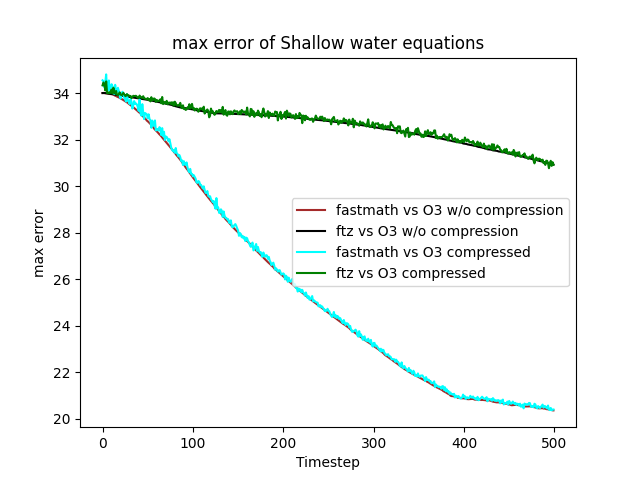
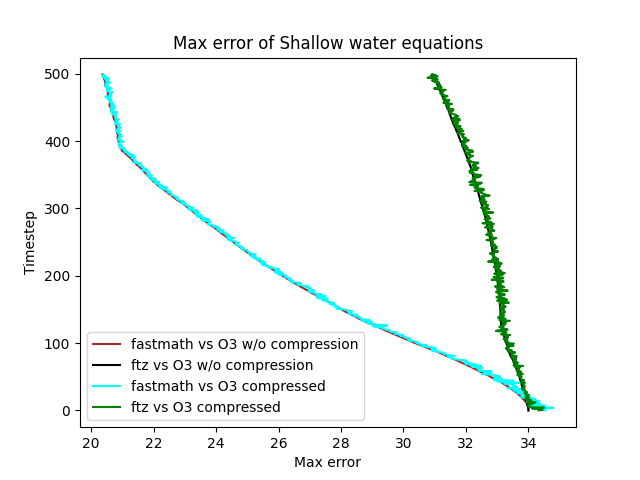
results for section 4.1

diff --git a/experiments/shallowwater.py b/experiments/shallowwater.py
@@ -96,37 +96,37 @@ for timestep in range(500):
 
     timesteps.append(timestep)
 
-    absolute_error_fastmathvsO3.append(torch.mean(subtraction_fastmathvsO3))
-    absolute_error_ftzvsO3.append(torch.mean(subtraction_ftzvsO3))
+    absolute_error_fastmathvsO3.append(torch.var(subtraction_fastmathvsO3))
+    absolute_error_ftzvsO3.append(torch.var(subtraction_ftzvsO3))
 
     decompressed_subtraction_fastmathvsO3 = abs(compressor.decompress(compressed_b - compressed_a))
     decompressed_subtraction_ftzvsO3 = abs(compressor.decompress(compressed_c - compressed_a))
 
-    absolute_error_fastmathvsO3_compressed.append(torch.mean(decompressed_subtraction_fastmathvsO3))
-    absolute_error_ftzvsO3_compressed.append(torch.mean(decompressed_subtraction_ftzvsO3))
+    absolute_error_fastmathvsO3_compressed.append(decompressed_subtraction_fastmathvsO3.max())
+    absolute_error_ftzvsO3_compressed.append(decompressed_subtraction_ftzvsO3.max())
 
 
 plt.plot(
-    np.asarray(absolute_error_fastmathvsO3),
     np.asarray(timesteps),
+    np.asarray(absolute_error_fastmathvsO3),
     label="fastmath vs O3 w/o compression",
     color="brown",
 )
-plt.plot(np.asarray(absolute_error_ftzvsO3), np.asarray(timesteps), label="ftz vs O3 w/o compression", color="black")
+plt.plot(np.asarray(timesteps), np.asarray(absolute_error_ftzvsO3), label="ftz vs O3 w/o compression", color="black")
 
-plt.plot(
-    np.asarray(absolute_error_fastmathvsO3_compressed),
-    np.asarray(timesteps),
-    label="fastmath vs O3 compressed",
-    color="cyan",
-)
-plt.plot(
-    np.asarray(absolute_error_ftzvsO3_compressed), np.asarray(timesteps), label="ftz vs O3 compressed", color="green"
-)
+# plt.plot(
+#     np.asarray(absolute_error_fastmathvsO3_compressed),
+#     np.asarray(timesteps),
+#     label="fastmath vs O3 compressed",
+#     color="cyan",
+# )
+# plt.plot(
+#     np.asarray(absolute_error_ftzvsO3_compressed), np.asarray(timesteps), label="ftz vs O3 compressed", color="green"
+# )
 
-plt.title("mean error of Shallow water equations")
-plt.xlabel("mean error")
-plt.ylabel("timestep")
+plt.title("variance error of Shallow water equations")
+plt.xlabel("timestep")
+plt.ylabel("var error")
 plt.legend()
-plt.savefig("mean_error_graph_absolute_error.png")
+plt.savefig("variance_error_graph_absolute_error.png")
 plt.close()
